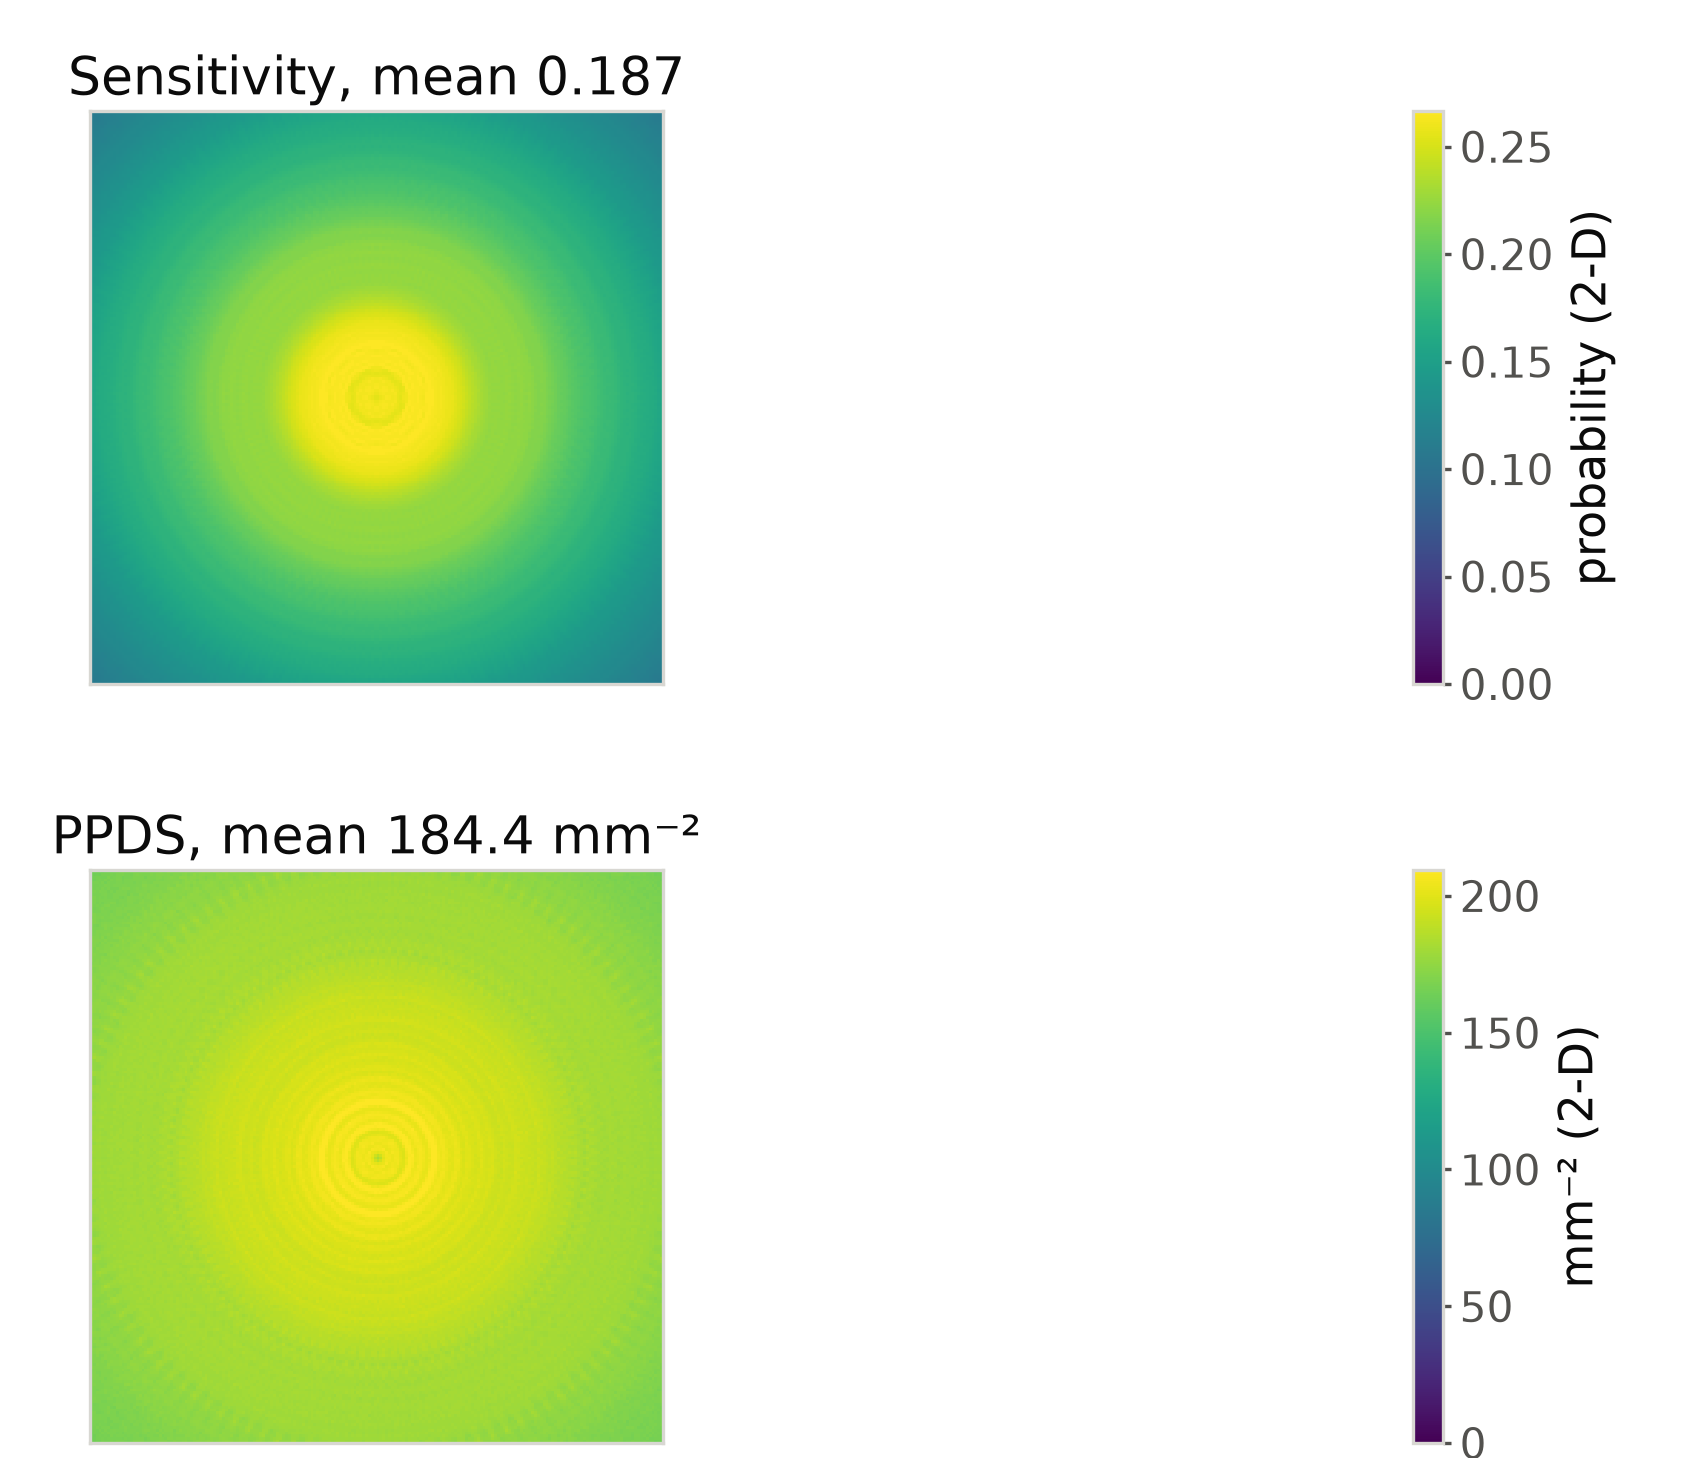
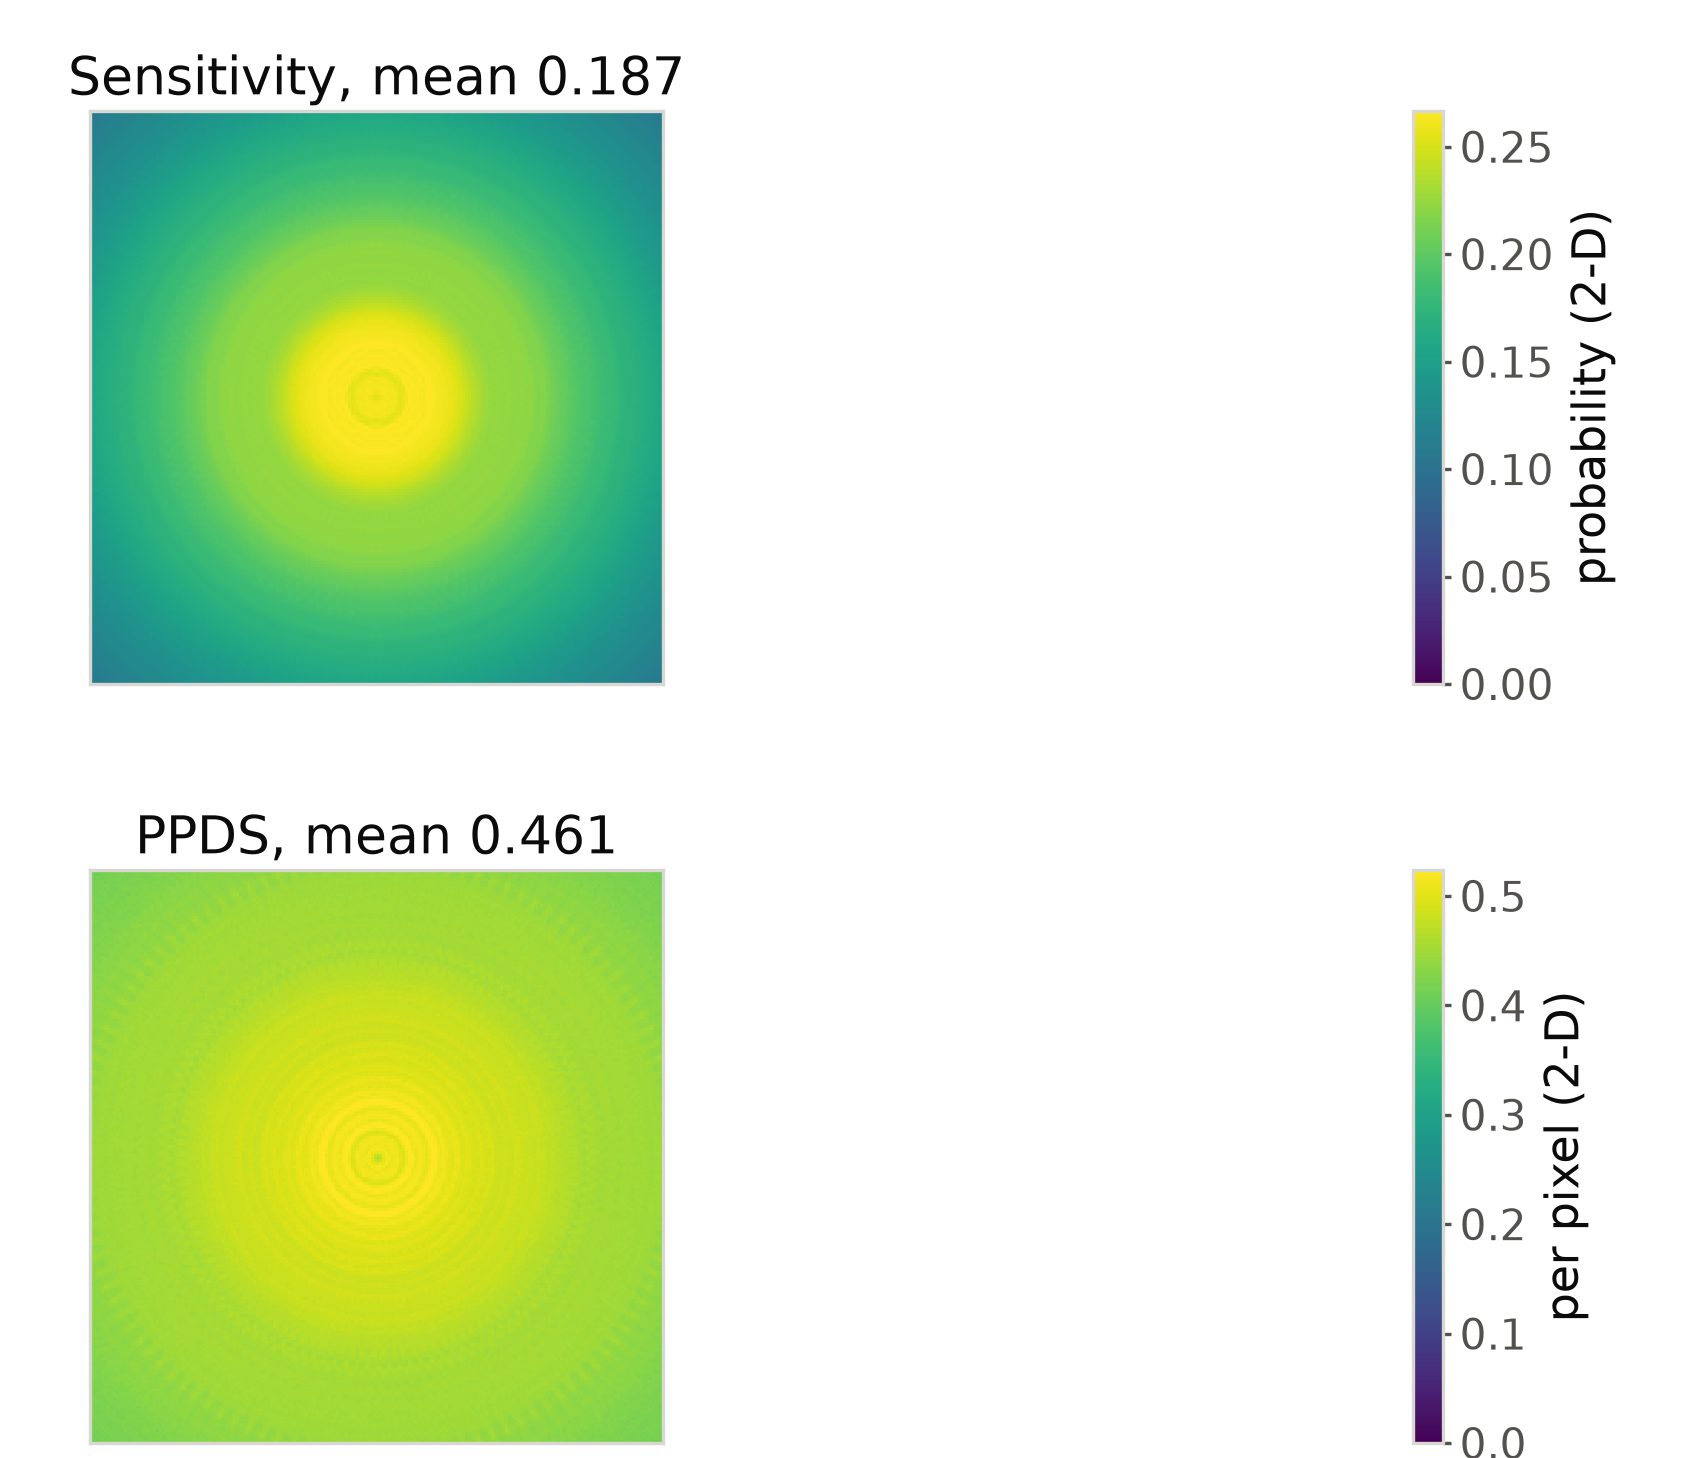
R13 slide 15: PPDS per pixel, divider between the map rows

diff --git a/spebt/optimization/make_characterization_figures.py b/spebt/optimization/make_characterization_figures.py
@@ -37,8 +37,10 @@ CMAP = "viridis"
 # the system's sensitivity is their mean (Dr. Yao, 30 Oct 2026: "check the maximum value of
 # the sensitivity color palette"). Both maps are shown per bed position.
 PER_POSITION = 1 / 8
-PPDS_SCALE = {"ry_mask": PER_POSITION, "eq6": 1e2 * PER_POSITION}
-PPDS_UNIT = {"ry_mask": " mm⁻²", "eq6": " ×10⁻² mm⁻²"}
+# Dr. Yao, 31 Oct: "report PPDS_j the unit of per pixel ... scaled by 0.05^2" (A_i in pixels).
+PIXEL_MM = 0.05
+PPDS_SCALE = {"ry_mask": PER_POSITION * PIXEL_MM ** 2, "eq6": 1e2 * PER_POSITION}
+PPDS_UNIT = {"ry_mask": "", "eq6": " ×10⁻² mm⁻²"}   # per pixel: on the colour bar, as sensitivity
 N = 200                     # 0.05 mm pixels; pixel p is (x, y) = (p // 200, p % 200)
 EXTENT = (-5, 5, -5, 5)
 
@@ -150,9 +152,10 @@ def maps_figure(d, rows, out, side, name, gap=0.22, left=0.08):
     fw = cx[1] + side / 2 + 1.05
     fh = top + len(rows) * (title_h + side) + (len(rows) - 1) * row_gap + 0.05
     fig = plt.figure(figsize=(fw, fh))
-    bench, mobo, bars, means = [], [], [], []
+    bench, mobo, bars, means, ys = [], [], [], [], []
     for r, (label, key, unit, scale, bar, fmt) in enumerate(rows):
         y = fh - top - title_h - side - r * (title_h + side + row_gap)
+        ys.append(y)
         vals = [d[k][key] * scale for k in ("bench", "mobo")]
         vmax = max(np.percentile(v, 99.5) for v in vals)
         for c, v in enumerate(vals):
@@ -163,6 +166,8 @@ def maps_figure(d, rows, out, side, name, gap=0.22, left=0.08):
             means.append(float(np.nanmean(v)))
         bars.append(vbar(fig, im, cx[1] + side / 2 + 0.14, y, side, fw, fh, bar))
     LAYOUT[name] = {"w": round(fw, 4), "h": round(fh, 4), "cx": [round(v, 4) for v in cx]}
+    if len(rows) == 2:  # mid-gap between the rows, from the bottom, for his slide 15 divider
+        LAYOUT[name]["divider"] = round((ys[0] + ys[1] + side + title_h) / 2, 4)
     write_layers(fig, bench[0], bench + mobo + bars, {"benchmark": bench + bars, "mobo": mobo}, out, DPI)
     return means
 
@@ -224,7 +229,7 @@ def main():
                     os.path.join(a.outdir, "char_asci.png"), 3.25, "asci")
     print("asci means:", m)
     m = maps_figure(d, [("Sensitivity", "sens_all", "", PER_POSITION, "probability (2-D)", ".3f"),
-                        ("PPDS", f"{a.ppds}_all", PPDS_UNIT[a.ppds], PPDS_SCALE[a.ppds], "mm⁻² (2-D)", ".1f")],
+                        ("PPDS", f"{a.ppds}_all", PPDS_UNIT[a.ppds], PPDS_SCALE[a.ppds], "per pixel (2-D)", ".3f")],
                     os.path.join(a.outdir, "char_sens_ppds.png"), 1.91, "sens_ppds", gap=0.45, left=0.3)
     print("sens, ppds means (per bed position):", m)
     with open(os.path.join(a.outdir, "char_layout.json"), "w") as f:
